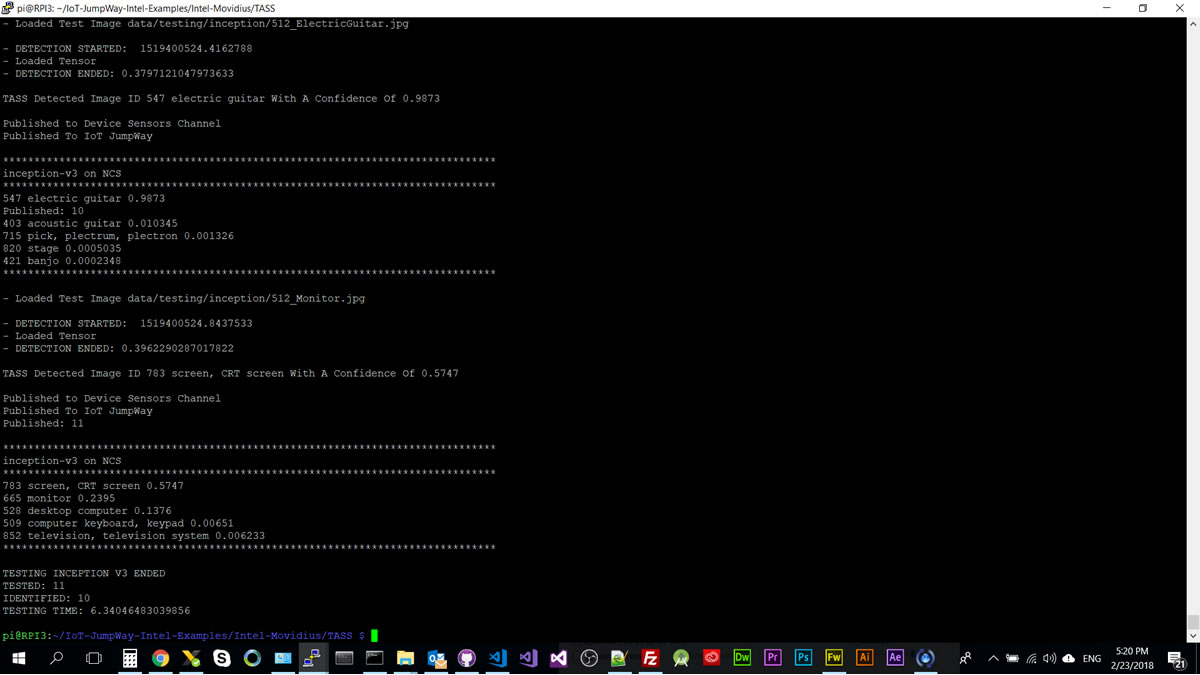
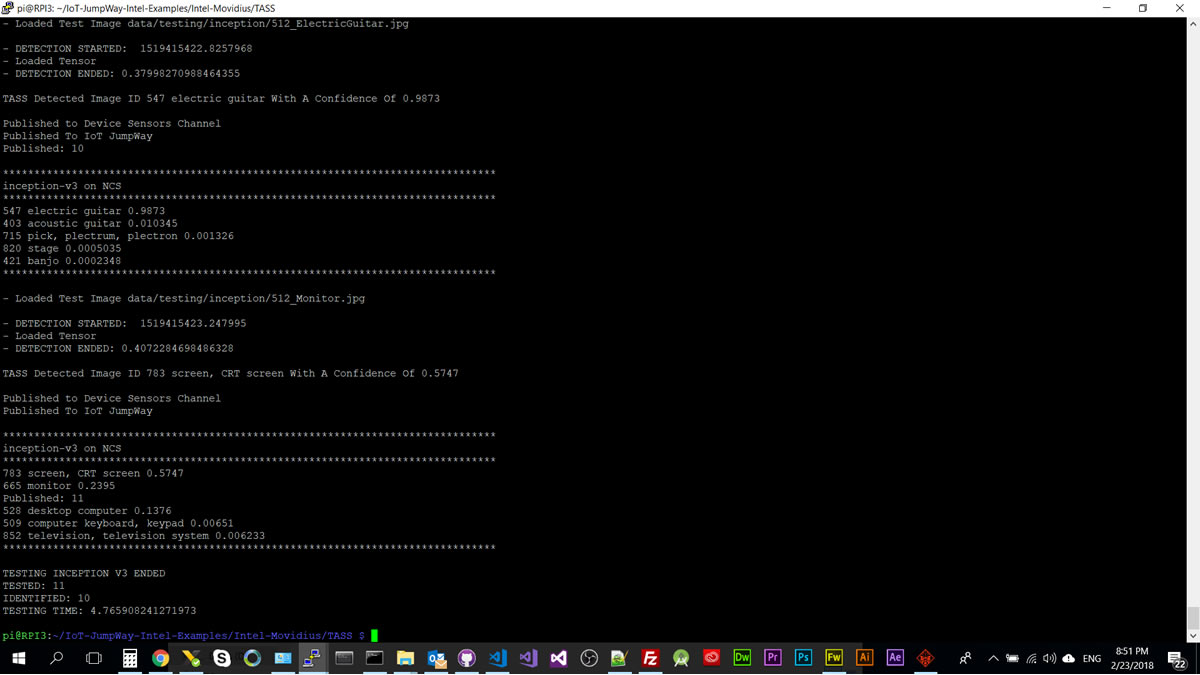
[Intel-Movidius] Updated TASS README RPI results

diff --git a/Intel-Movidius/TASS/tass.py b/Intel-Movidius/TASS/tass.py
@@ -102,7 +102,7 @@ class TassMovidius():
         
     def loadInceptionRequirements(self):
         
-        with open(self._configs["ClassifierSettings"]["NetworkPath"] + self._configs["ClassifierSettings"]["Graph"], mode='rb') as f:
+        with open(self._configs["ClassifierSettings"]["NetworkPath"] + self._configs["ClassifierSettings"]["InceptionGraph"], mode='rb') as f:
             
             self.graphfile = f.read()
 
@@ -132,15 +132,16 @@ class TassMovidius():
         
     def loadYoloRequirements(self):
 
-        network_blob='graph'
         opt = self.movidius.GetDeviceOption(mvnc.DeviceOption.OPTIMISATION_LIST)
-
-        # load blob
-        with open(network_blob, mode='rb') as f:
+        
+        with open(self._configs["ClassifierSettings"]["YoloGraph"], mode='rb') as f:
 
             blob = f.read()
 
         self.allocateGraph(blob)
+        
+        print("- Allocated Graph OK")
+        
         self.graph.SetGraphOption(mvnc.GraphOption.ITERATIONS, 1)
         self.iterations = self.graph.GetGraphOption(mvnc.GraphOption.ITERATIONS)
             

diff --git a/Intel-Movidius/TASS/README.md b/Intel-Movidius/TASS/README.md
@@ -158,14 +158,16 @@ Once you have the repo, you will need to find the files in this folder located i
 
 ```
  $ cd IoT-JumpWay-Intel-Examples/Intel-Movidius/TASS
- $ make run
+ $ make all
 ```
 
-This will run ncprofile, nccompile and run:
+This will:
 
-1. Downloads the TensorFlow checkpoint file.
-2. Runs the conversion/save python script to generate network.meta file.
-3. Profiles, Compiles and Checks the network using the Neural Compute SDK.
+1. Download the TensorFlow checkpoint file.
+2. Run the conversion/save python script to generate network.meta file.
+3. Profile, Compile and Check the network using the Neural Compute SDK.
+
+Once you have done this you should see a file called **graph**, for this tutorial to work you need to rename this file on your device to **igraph**. This will allow you to switch between the Inception V3 model and the Yolo model without having to recompile the graph every time.
 
 ## TASS Movidius Configuration Modes
 
@@ -188,29 +190,29 @@ Now that everything is working, you can execute the following command which will
 
 ![Test Inception V3 Object Recognition](images/InceptionTestRPI.jpg)
 
-Using a Raspberry Pi, it should of taken about 0.3 / 0.4 seconds to classify each image.  Out of the 11 images tested 10 were identified with a confidence higher than 50%, the whole process should take around 5 - 6 seconds on a Raspberry Pi. **TESTING TIME** includes the time it took to process the 11 images, classify them, and send a notification to the IoT JumpWay for each object identified.
+Using a Raspberry Pi, it should of taken about 0.3 / 0.4 seconds to classify each image.  Out of the 11 images tested 10 were identified with a confidence higher than 50%, the whole process should take around 4-5 seconds on a Raspberry Pi. **TESTING TIME** includes the time it took to process the 11 images, classify them, and send a notification to the IoT JumpWay for each object identified.
 
 ```
-- Loaded Test Image data/testing/inception/512_InkjetPrinter.jpg
+- Loaded Test Image data/testing/inception/512_Monitor.jpg
 
-- DETECTION STARTED:  1519400522.717097
+- DETECTION STARTED:  1519415423.247995
 - Loaded Tensor
-- DETECTION ENDED: 0.3797774314880371
+- DETECTION ENDED: 0.4072284698486328
 
-TASS Detected Image ID 743 printer With A Confidence Of 0.9727
+TASS Detected Image ID 783 screen, CRT screen With A Confidence Of 0.5747
 
 Published to Device Sensors Channel
 Published To IoT JumpWay
 
 *******************************************************************************
-Published: 7
 inception-v3 on NCS
 *******************************************************************************
-743 printer 0.9727
-714 photocopier 0.02463
-663 modem 0.000944
-733 Polaroid camera, Polaroid Land camera 0.0004566
-746 projector 0.0004222
+783 screen, CRT screen 0.5747
+665 monitor 0.2395
+Published: 11
+528 desktop computer 0.1376
+509 computer keyboard, keypad 0.00651
+852 television, television system 0.006233
 *******************************************************************************
 ```
 
@@ -218,7 +220,7 @@ inception-v3 on NCS
 TESTING INCEPTION V3 ENDED
 TESTED: 11
 IDENTIFIED: 10
-TESTING TIME: 6.34046483039856
+TESTING TIME: 4.765908241271973
 ```
 
 ### Intel® NUC  Results
@@ -286,47 +288,44 @@ Using a Raspberry Pi, it should of taken about 0.7 seconds to identify the car a
 Welcome to TASS Movidius, please wait while the program initiates...
 
 - Imported Required Modules
+- Movidius Connected
+- Allocated Graph OK
+- Allocated Graph OK
 -- YOU ARE IN TEST MODE, EDIT data/confs.json TO CHANGE MODE TO LIVE --
 
-- Movidius Connected
 - IoT JumpWay Initiated
 
 -- TassMovidius Initiated
 
-YOLO TEST MODE
+- YOLO TEST MODE STARTED:  1519415604.1698081
 
-- TESTING YOLO STARTED:  1519407014.1893709
-
-Published to Device Status
-rc: 0
-Published: 1
-- Allocated Graph OK
 
 - Loaded Test Image data/testing/yolo/dog.jpg
 
-- DETECTION STARTED:  2018-02-23 17:30:16.818646
+- DETECTION STARTED:  2018-02-23 19:53:24.172337
+Published to Device Status
+rc: 0
+Published: 1
 - Loaded Tensor
-- DETECTION ENDED: 0.701134204864502
+- DETECTION ENDED: 0.777153491973877
 
 - SAVED IMAGE/FRAME
 
 TASS Detected  car With A Confidence Of 0.29334354400634766
 
 Published to Device Sensors Channel
-Published To IoT JumpWay
-
 
 TASS Detected  bicycle With A Confidence Of 0.23780977725982666
 
 Published: 2
 Published to Device Sensors Channel
-Published To IoT JumpWay
+```
 
-
-TESTING YOLO ENDED
+```
+YOLO TEST MODE ENDED
 TESTED: 1
 IDENTIFIED: 2
-TESTING TIME: 3.3891067504882812
+TESTING TIME: 0.8514771461486816
 ```
 
 ### Intel® NUC  Results
